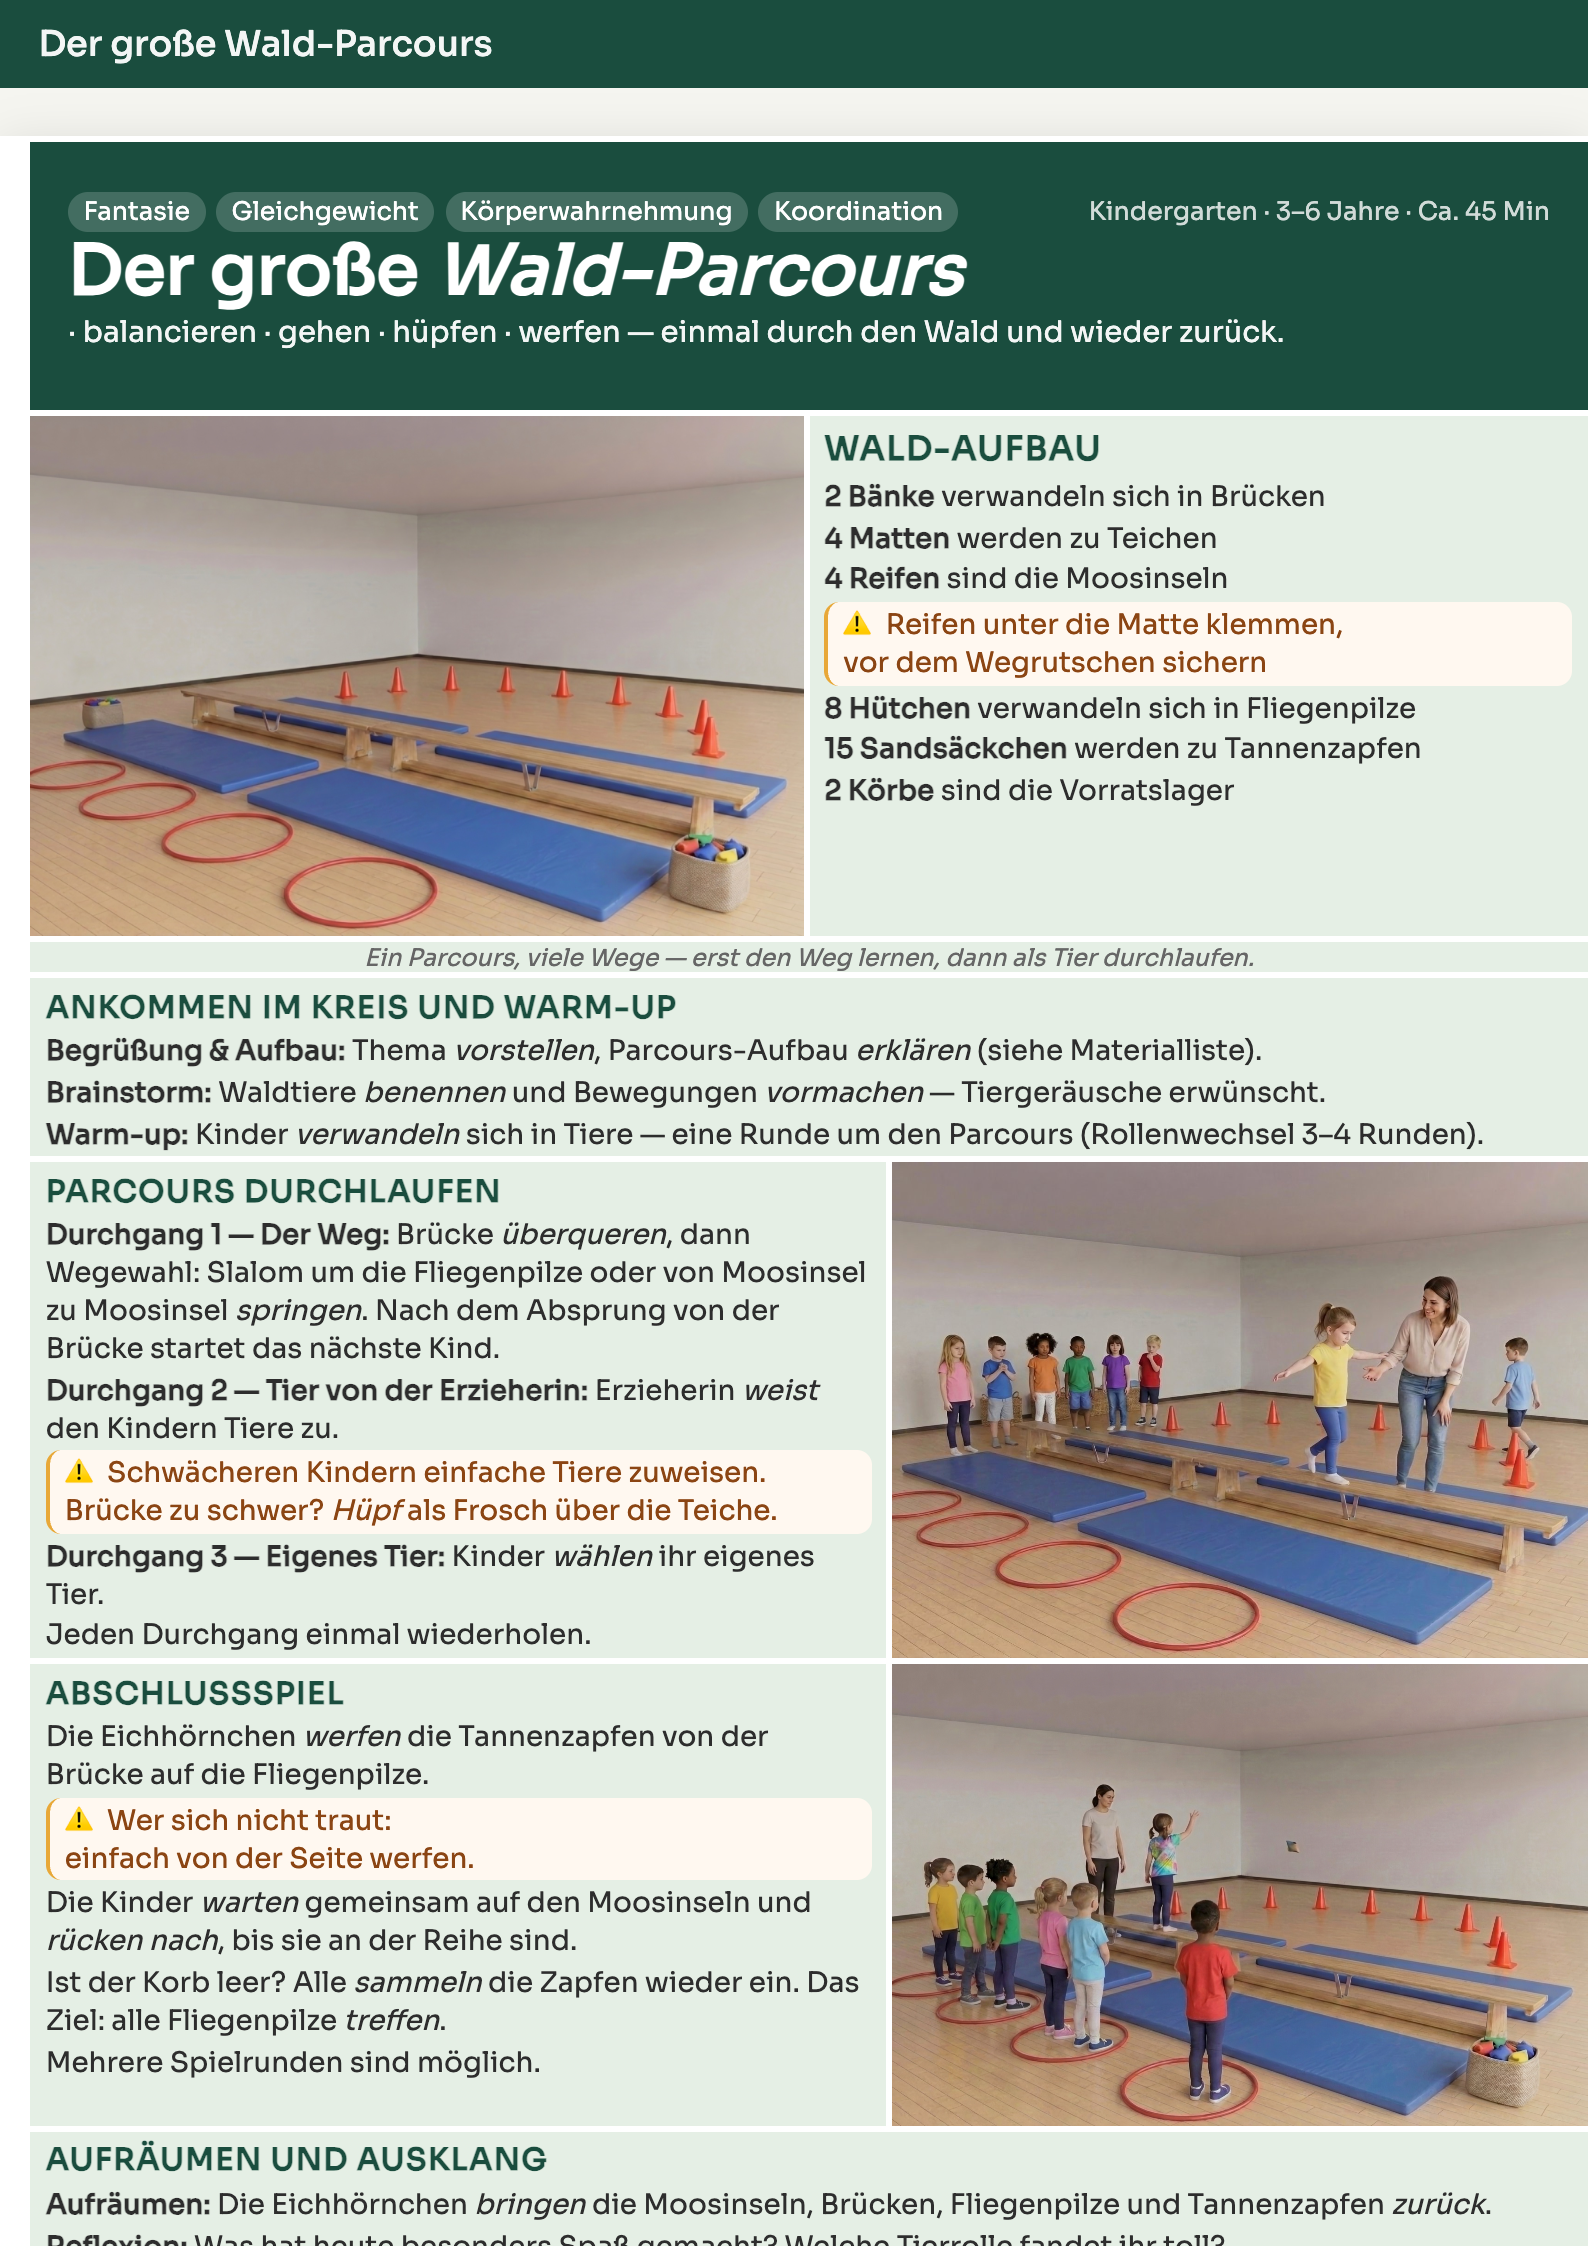
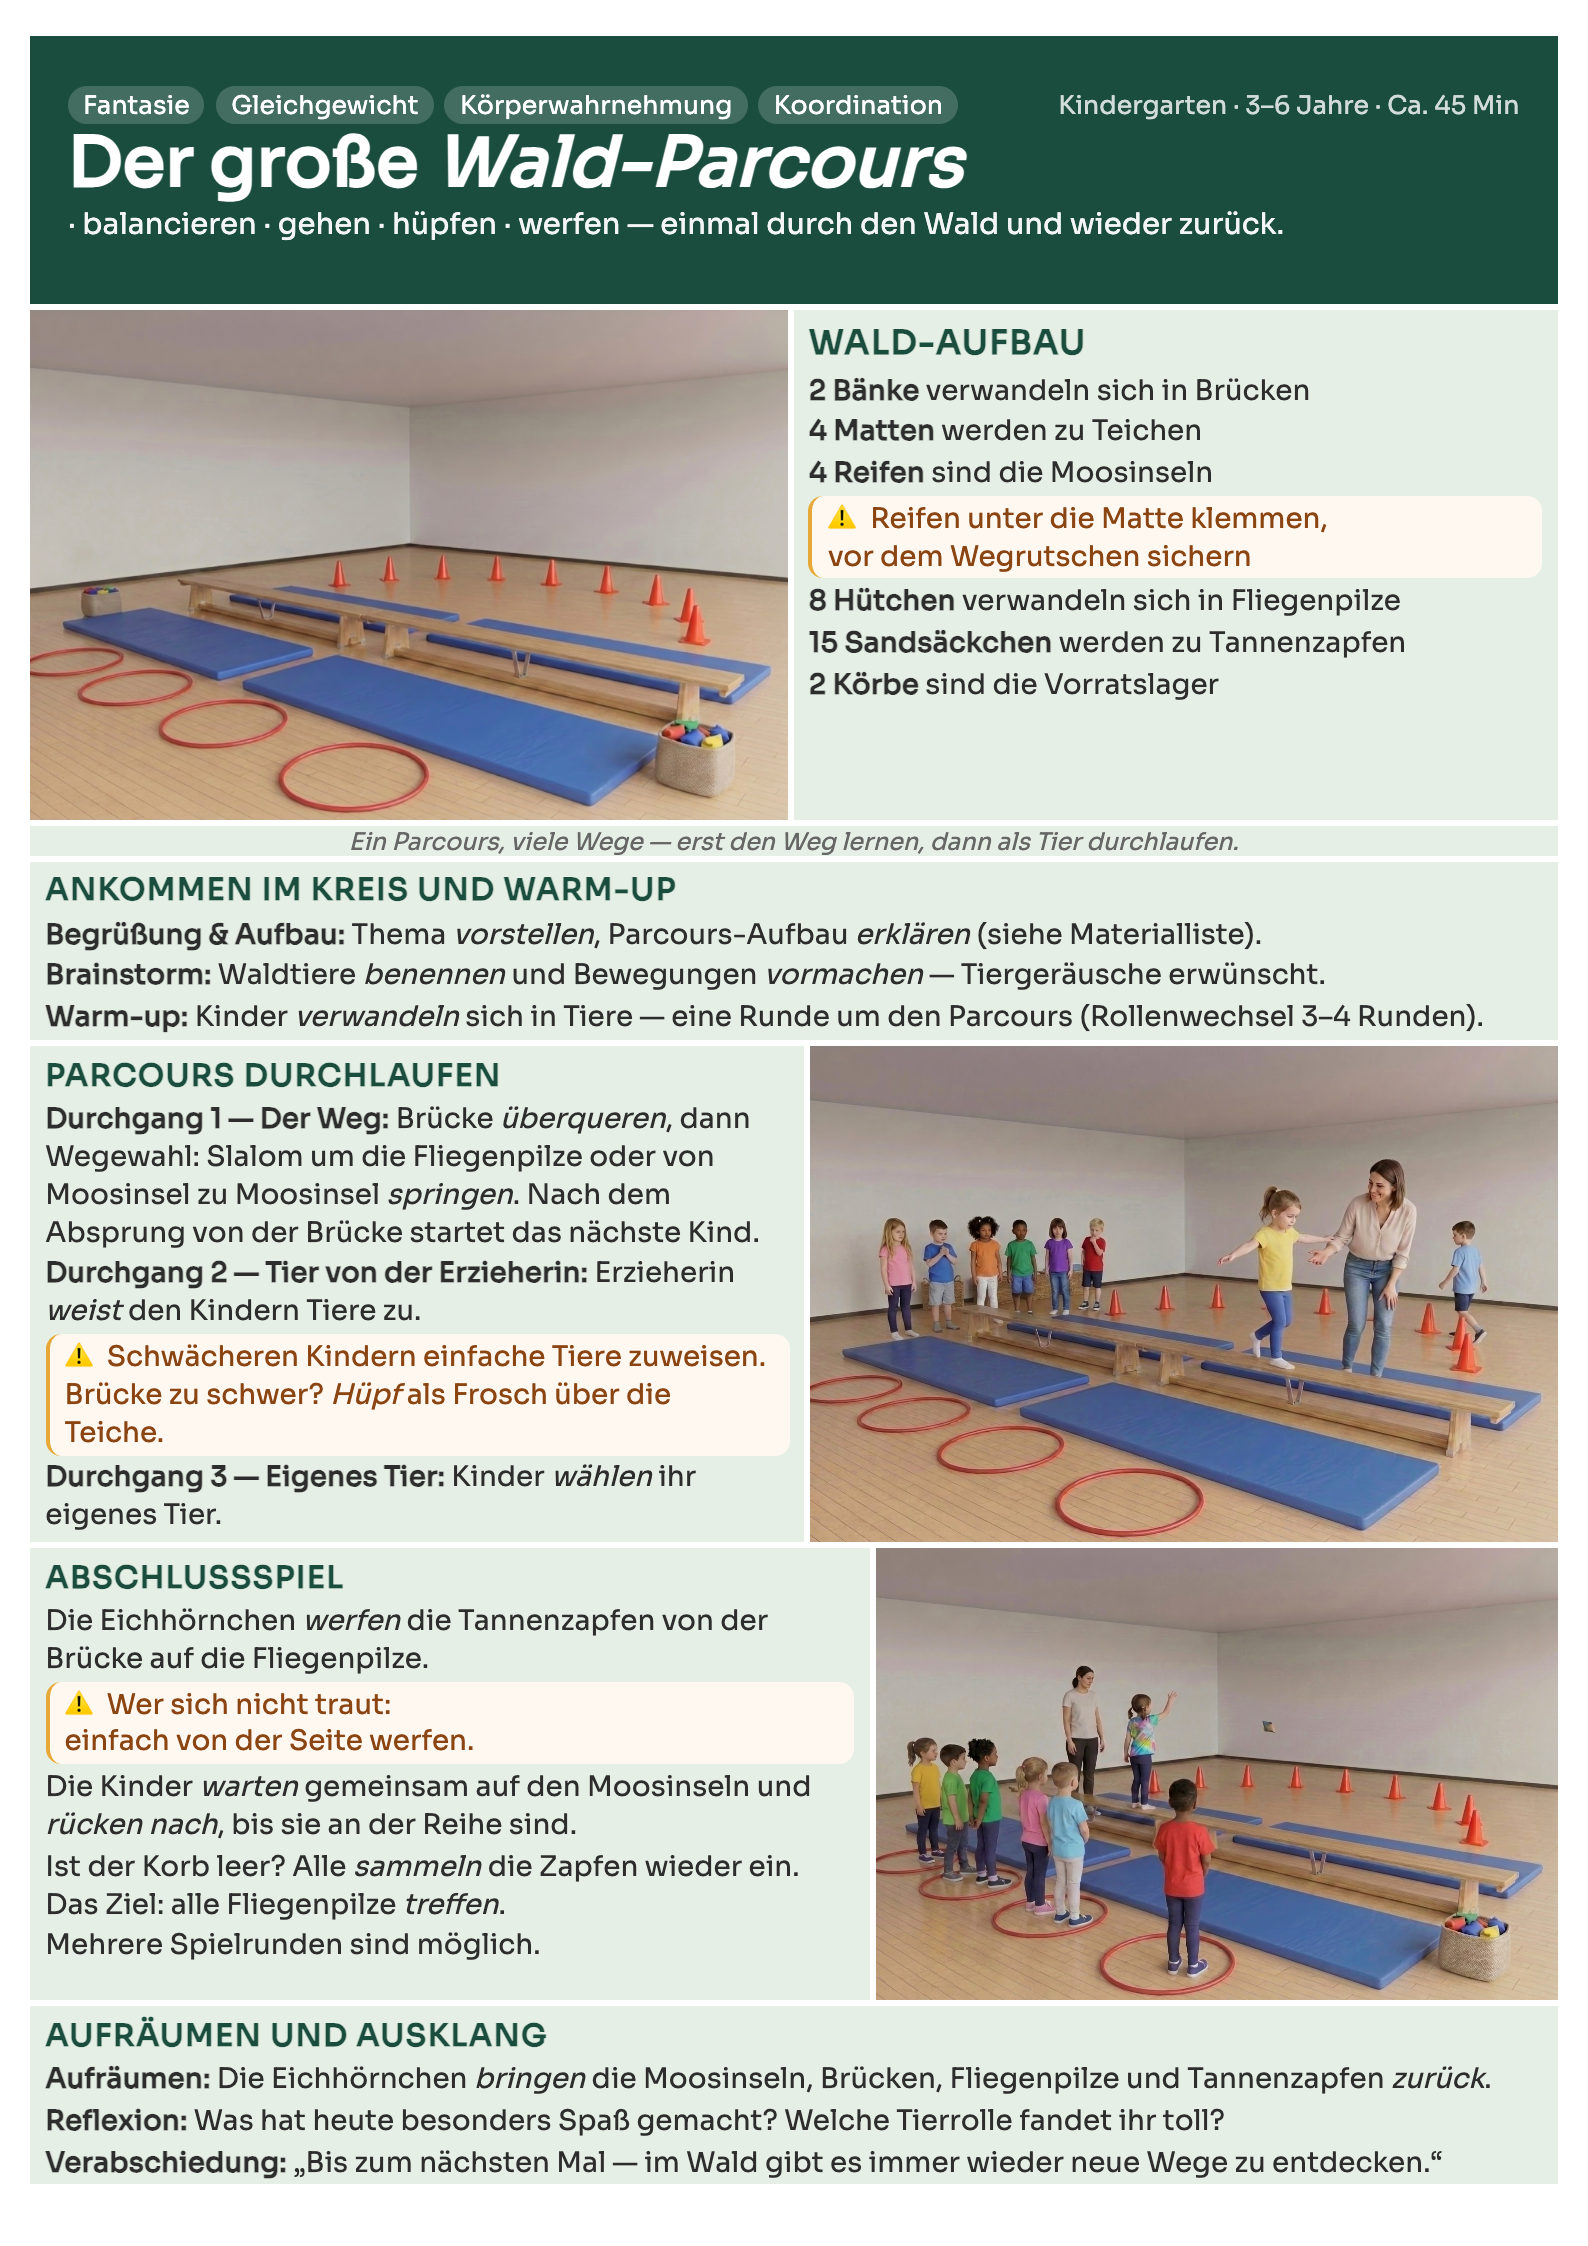
content: Handout-Fächer — Wettkampf raus, Krippe-Spielstunde als Deckblatt
Neue Reihenfolge: Krippe-Spielstunde (vorne), KiGa-Spielstunde (mittig),
KiGa-Parcours (hinten). Alle Previews neu gerendert als 1:1 PDF-Screenshots.

diff --git a/index.html b/index.html
@@ -301,7 +301,7 @@
   </div>
   <div class="hero-faecher">
     <div class="faecher-card">
-      <img src="assets/handouts/wald-wettkampf-preview.png" alt="Wald-Wettkampf Handout Vorschau" width="794" height="1123" />
+      <img src="assets/handouts/wald-krippe-spielstunde-preview.png" alt="Wald-Krippe-Spielstunde Handout Vorschau" width="794" height="1123" />
     </div>
     <div class="faecher-card">
       <img src="assets/handouts/wald-spielstunde-preview.png" alt="Wald-Spielstunde Handout Vorschau" width="794" height="1123" />
